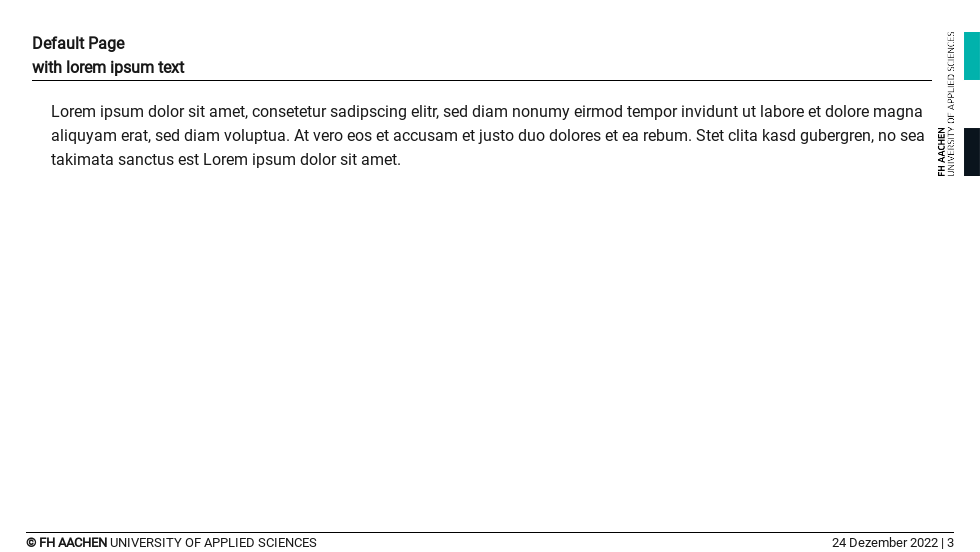
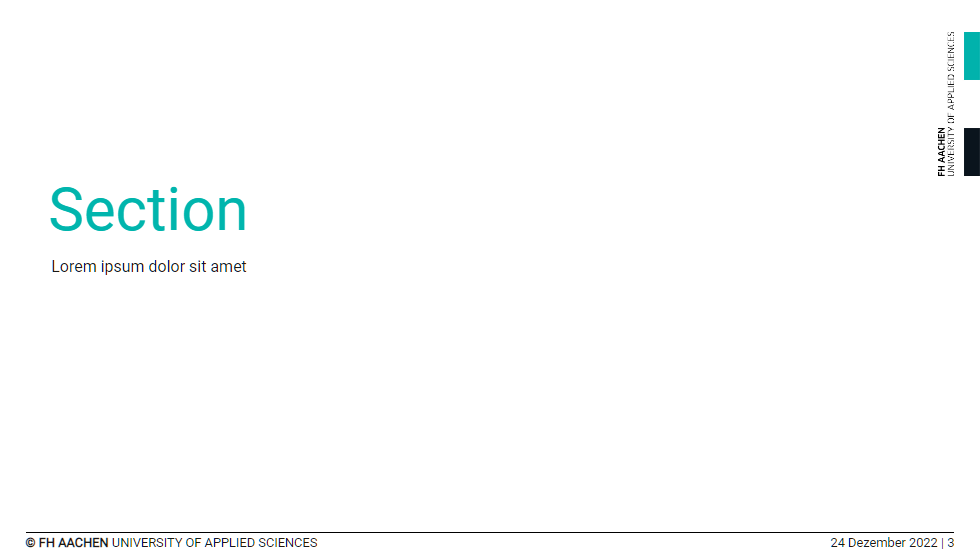
add layout section and update css

diff --git a/global-bottom.vue b/global-bottom.vue
@@ -1,8 +1,10 @@
 <template>
     <footer class="fhlayout" v-if="showIf">
-        <div class="content">
+        <div :class="{ 'content': true, 'content--isCover': isCover }">
             <p><strong>&copy; FH AACHEN</strong><span> UNIVERSITY OF APPLIED SCIENCES</span></p>
-            <p>{{ date }} | {{ this.$slidev.nav.currentPage }} </p>
+            <p v-if="isCover">Fachbereich {{ this.$slidev.configs.faculty }}</p>
+            <p><a v-if="isCover" href="http://www.fh-aachen.de">www.fh-aachen.de</a></p>
+            <p v-if="!isCover">{{ date }} | {{ this.$slidev.nav.currentPage }} </p>
         </div>
     </footer>
 </template>
@@ -12,7 +14,11 @@ export default {
 
     computed: {
         showIf() {
-            return true;
+            let layout = this.$slidev.nav.currentLayout;
+            return layout !== 'end';
+        },
+        isCover(){
+            return this.$slidev.nav.currentLayout === 'cover'
         },
         date() {
             if (typeof this.$slidev.configs.date !== 'undefined') {

diff --git a/styles/layout.css b/styles/layout.css
@@ -7,7 +7,7 @@
 /* base */
 h1 {
   color: var(--theme-accent-color);
-  font-size: 48px;
+  @apply text-6xl mb-4 -ml-[0.05em];
 }
 
 ul {
@@ -46,6 +46,13 @@ html.dark .fhlayout.default .headline {
 }
 
 /* layout two-cols */
+.fhlayout.section main,
+.fhlayout.cover main {
+  position: absolute;
+  width: 85%;
+  top: 10em;
+}
+
 .fhlayout.two-cols main {
   display: flex;
   justify-content: space-between;
@@ -93,11 +100,25 @@ footer {
   font-size: 0.8em;
 }
 
+footer .content.content--isCover{
+  justify-content: flex-start;
+}
+
+footer .content.content--isCover p:not(:last-child)::after{
+  margin: 0 .5em 0 .5em;
+  content: "|";
+}
+
 footer .content {
   position: relative;
   display: flex;
   justify-content: space-between;
   border-top: 1px black solid;
+}
+
+footer a,
+header a{
+  text-transform: uppercase;
 }
 
 html.dark footer .content {

diff --git a/layouts/cover.vue b/layouts/cover.vue
@@ -1,11 +1,12 @@
 <template>
     <div class="fhlayout cover">
-        <h1>{{title}}</h1>
-        <h2>{{subtitle}}</h2>
-        <br>
-        <h4>{{referent}}</h4>
-        <h4>{{date}}</h4>
-        <slot></slot>
+        <main>
+            <h1>{{ title }}</h1>
+            <h2>{{ subtitle }}</h2>
+            <br>
+            <h4>{{ referent }}</h4>
+            <h4>{{ date }}</h4>
+        </main>
     </div>
 </template>
 

diff --git a/layouts/end.vue b/layouts/end.vue
@@ -5,9 +5,9 @@
             <br>
             <p>{{ referent }}</p>
             <p>{{ studentnr }}</p>
-            <p>{{ email }}</p>
+            <a :href="`mailto:${email}`">{{email}}</a>
             <br>
-            <p>www.fh-aachen.de</p>
+            <a href="http://www.fh-aachen.de">www.fh-aachen.de</a>
     </div>
 </template>
 

diff --git a/styles/index.ts b/styles/index.ts
@@ -1,3 +1,3 @@
 // inherit from base layouts, remove it to get full customizations
-import './layout.css'
 import './code.css'
+import './layout.css'

diff --git a/layouts/section.vue b/layouts/section.vue
@@ -1,0 +1,7 @@
+<template>
+    <div class="fhlayout section">
+        <main>
+            <slot></slot>
+        </main>
+    </div>
+</template>

diff --git a/README.md b/README.md
@@ -43,6 +43,10 @@ subheader: <text>
 
 ![](images/002.png)
 
+### `section`
+
+![](images/003.png)
+
 ### `default`
 
 Can be configured with: 
@@ -54,9 +58,9 @@ subheader: <text>
 ---
 ```
 
-![](images/003.png)
-
 ![](images/004.png)
+
+![](images/005.png)
 
 ### `two-cols`
 
@@ -69,10 +73,10 @@ subheader: <text>
 ---
 ```
 
-![](images/005.png)
+![](images/006.png)
 
 ### `end`
-![](images/006.png)
+![](images/007.png)
 
 
 ## Contributing

diff --git a/example.md b/example.md
@@ -23,6 +23,11 @@ header: Table of contents
   - Layer 2
     - Layer 3
 
+---
+layout: section
+---
+# Section
+## Lorem ipsum dolor sit amet
 
 ---
 header: Default Page
